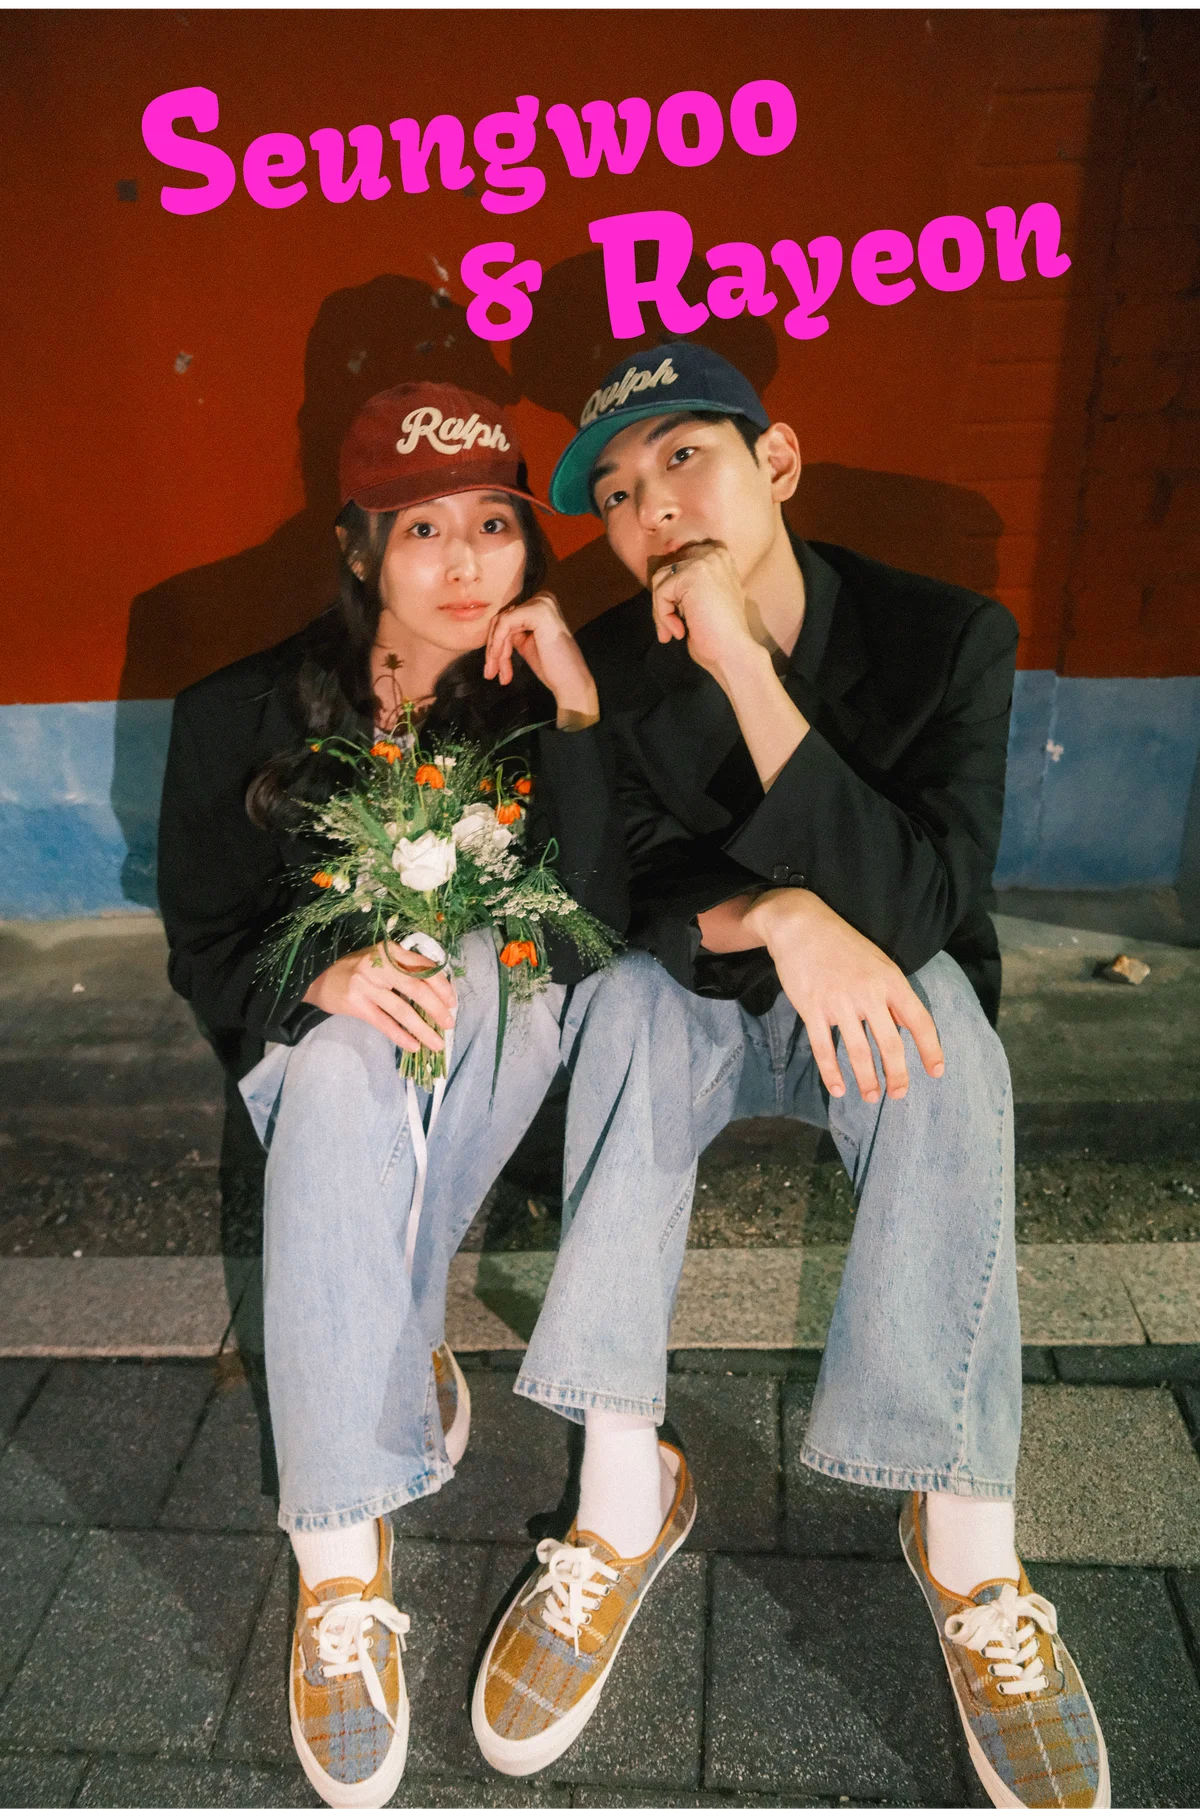
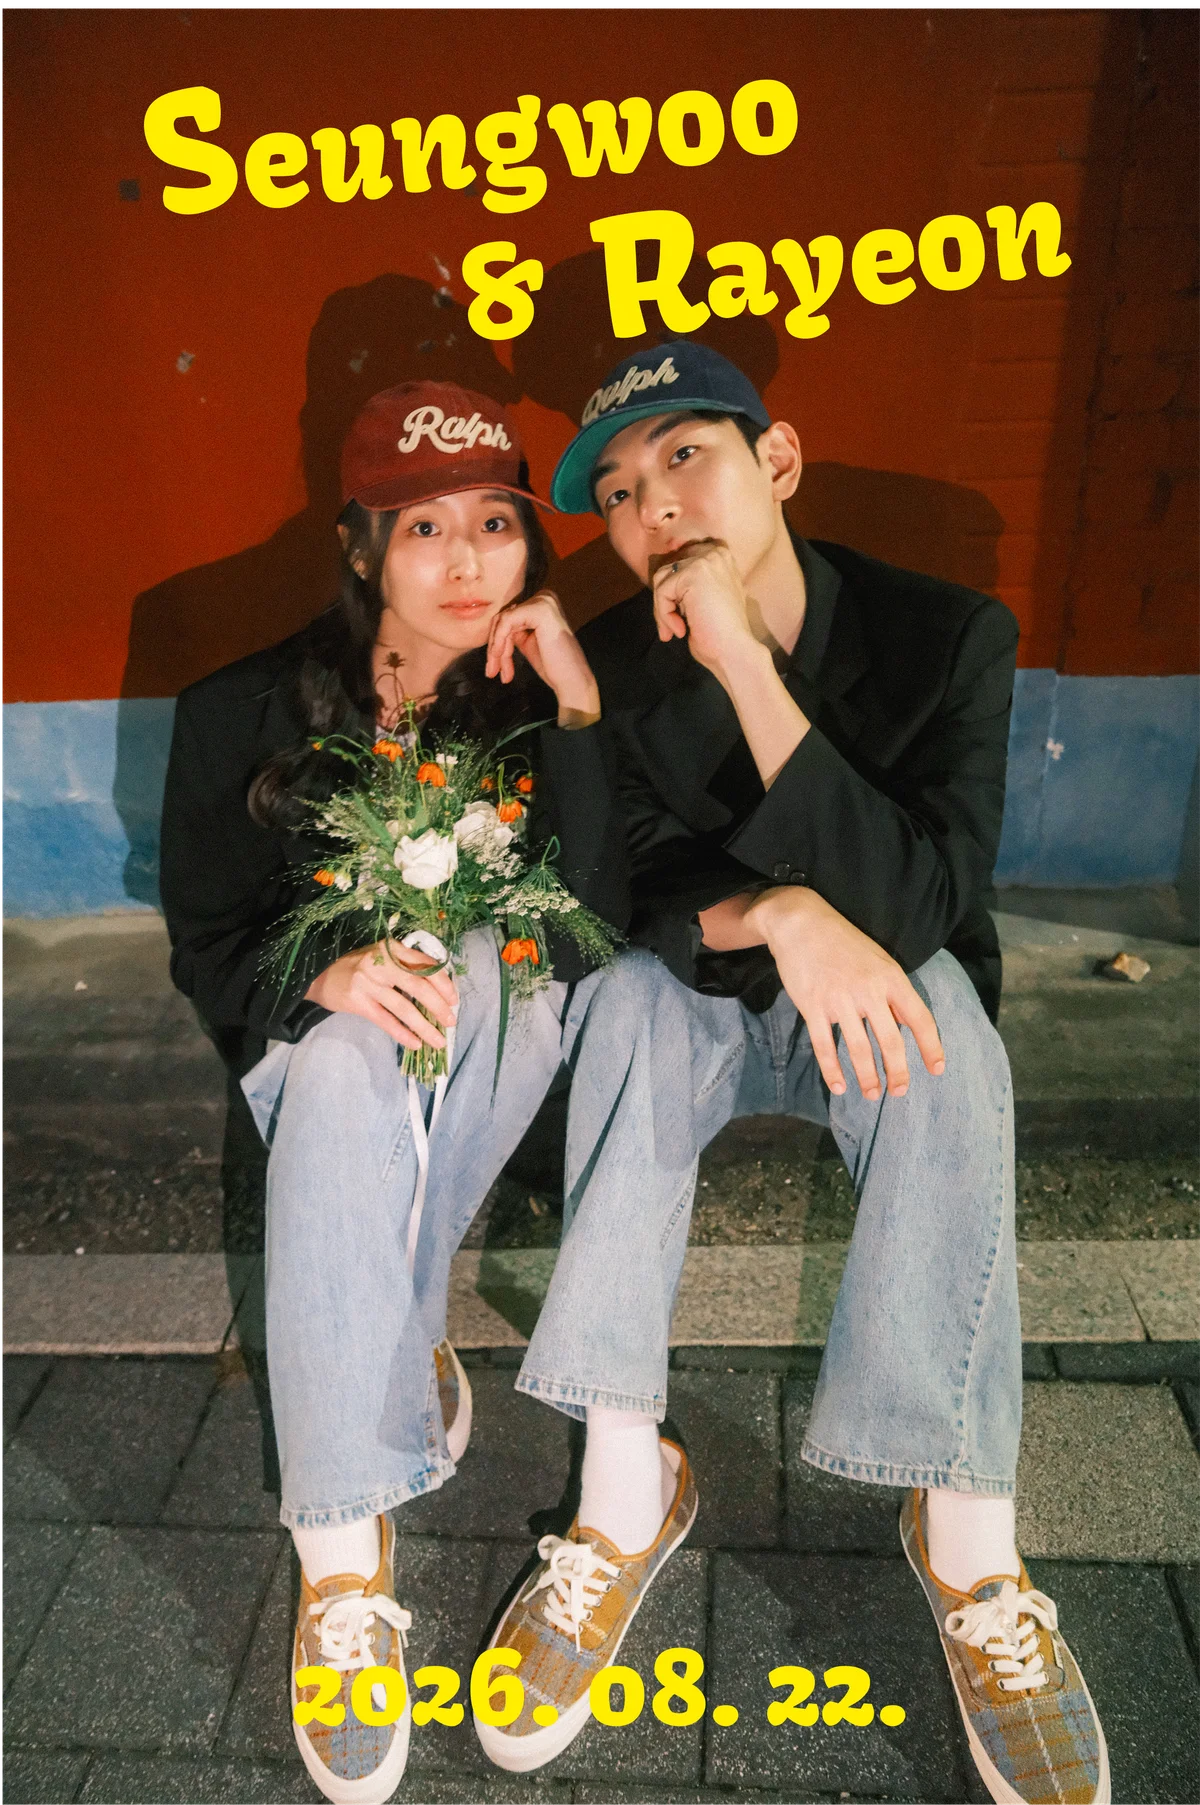
Replace all gallery/hero images with optimized WebP; update hero and og-image
- Gallery photo1~18: jpg/png → WebP (avg 10~17MB → 200~600KB)
- hero: PNG 21MB → WebP 419KB
- og-image: regenerated from new hero
- config.js: gallery order photo1~18 sequential

diff --git a/config.js b/config.js
@@ -68,28 +68,24 @@ const WEDDING_CONFIG = {
 
   // 갤러리 사진 목록
   gallery: [
-    // ── 야외 로맨틱 ──
-    'assets/images/gallery/photo4.jpg',   // 골든아워 첫인상
-    'assets/images/gallery/photo7.jpg',   // 나무 아래 밀착
-    'assets/images/gallery/photo6.jpg',   // 브라이덜 우아함
-    'assets/images/gallery/photo12.jpg',  // 나뭇잎 사이 조용한 둘만의 순간
-    'assets/images/gallery/photo9.jpg',   // 신랑 독사진
-    'assets/images/gallery/photo10.jpg',  // 신부 독사진
-    'assets/images/gallery/photo8.jpg',   // 둘이 함께
-    'assets/images/gallery/photo5.jpg',   // 자연스러운 캔디드
-    'assets/images/gallery/photo11.jpg',  // 반지 — 축하로 전환
-    // ── 야외 풍선 ──
-    'assets/images/gallery/photo3.jpg',
-    'assets/images/gallery/photo14.jpg',
-    'assets/images/gallery/photo15.jpg',
-    // ── 스튜디오 ──
-    'assets/images/gallery/photo18.jpg',  // 눈맞춤 — 따뜻한 시작
-    'assets/images/gallery/photo19.jpg',  // 브라이덜 우아함
-    'assets/images/gallery/photo2.jpg',   // 모래시계 친밀감
-    'assets/images/gallery/photo16.jpg',  // 캐주얼 밝음
-    'assets/images/gallery/photo1.jpg',   // 환한 웃음
-    'assets/images/gallery/photo17.jpg',  // 선물상자 장난기
-    'assets/images/gallery/photo13.jpg',  // 점프 — 경쾌한 마무리
+    'assets/images/gallery/photo1.webp',
+    'assets/images/gallery/photo2.webp',
+    'assets/images/gallery/photo3.webp',
+    'assets/images/gallery/photo4.webp',
+    'assets/images/gallery/photo5.webp',
+    'assets/images/gallery/photo6.webp',
+    'assets/images/gallery/photo7.webp',
+    'assets/images/gallery/photo8.webp',
+    'assets/images/gallery/photo9.webp',
+    'assets/images/gallery/photo10.webp',
+    'assets/images/gallery/photo11.webp',
+    'assets/images/gallery/photo12.webp',
+    'assets/images/gallery/photo13.webp',
+    'assets/images/gallery/photo14.webp',
+    'assets/images/gallery/photo15.webp',
+    'assets/images/gallery/photo16.webp',
+    'assets/images/gallery/photo17.webp',
+    'assets/images/gallery/photo18.webp',
   ],
 
   // ===== 계좌번호 =====
